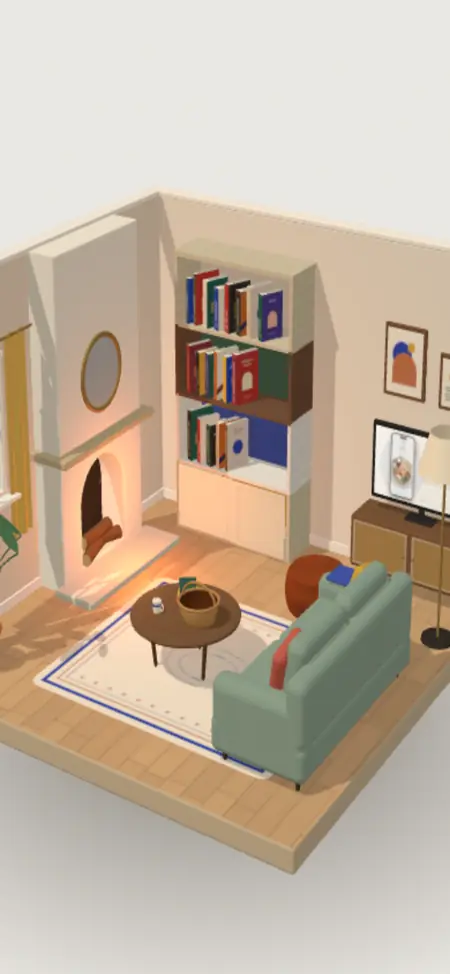
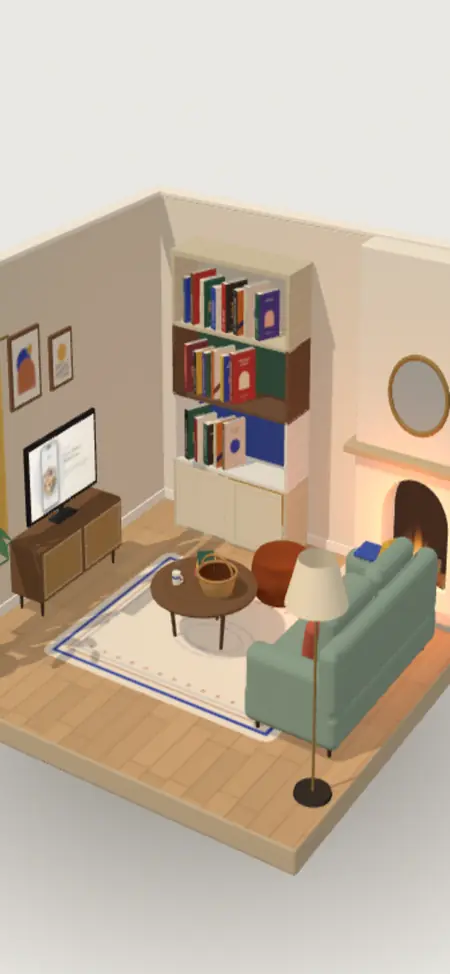
Plein écran pour les étagères ; salon réaménagé (télé face au canapé, cheminée loin des livres)
Claude-Session: https://claude.ai/code/session_01Tg9JuQWn64WBjX1JtYF8aa

Changed region(s): [[0.0, 0.2156, 1.0, 0.8932], [0.8089, 0.2464, 1.0, 0.2772]]

diff --git a/src/three/LivingRoomScene.js b/src/three/LivingRoomScene.js
@@ -26,13 +26,14 @@ const TARGET0 = new THREE.Vector3(0, 0.95, 0)
 
 // emplacements (repère de la pièce)
 const BOOKCASE = { x: -1.05, z: -R + 0.2, w: 1.62, h: 2.18, d: 0.38 }   // mur du fond, à gauche (face à la caméra)
-const FIRE = { z: -0.5, w: 1.3, d: 0.3 }                               // mur de gauche
-const TV = { x: 1.22 }
-const SOFA = { x: 1.34, z: 0.5 }
-const TABLE = { x: -0.02, z: 0.48 }
-const LAMP = { x: 1.76, z: -1.12 }
-const PLANT = { x: -1.58, z: 1.5 }
-const WINDOW = { z: 1.05, y: 1.5, w: 0.86, h: 1.08 }
+const FIRE = { x: 1.2, w: 1.3, d: 0.3 }                                // mur du fond, à droite (loin des livres)
+const TV = { z: 0.0 }                       // mur de gauche, en face du canapé
+const SOFA = { x: 1.34, z: 0.0 }            // face à la télé
+const TABLE = { x: -0.15, z: 0.0 }          // entre le canapé et la télé
+const LAMP = { x: 1.8, z: 1.38 }            // au bout du canapé
+const PLANT = { x: -1.6, z: 1.62 }          // coin, sous la fenêtre
+const WINDOW = { z: 1.3, y: 1.55, w: 0.66, h: 1.0 }
+const TV_FOV = 46                           // zoom sur la télé : comme assis dans le canapé
 
 const COL = {
   wallBack: '#ECE3D5', wallLeft: '#E4D9C8', base: '#F4EFE6', slab: '#CDBB9F',
@@ -429,17 +430,19 @@ export class LivingRoomScene {
     // tapis
     const rug = new THREE.Mesh(this._geo(new RoundedPlane(2.5, 2.1, 0.12)), this._mat('#ffffff', { map: this._track(rugTexture()), roughness: 1 }))
     rug.rotation.x = -Math.PI / 2
-    rug.position.set(0.18, 0.008, 0.42)
+    rug.position.set(-0.05, 0.008, 0.0)
     rug.receiveShadow = true
     g.add(rug)
 
-    // cadres au-dessus de la télé
+    // cadres au-dessus de la télé (mur de gauche)
     const frameMat = this._woodMat(COL.walnut)
-    ;[[TV.x - 0.3, 1.78, 0.44, 0.58, 0], [TV.x + 0.24, 1.7, 0.34, 0.44, 1]].forEach(([x, y, w, h, k]) => {
+    ;[[TV.z + 0.3, 1.86, 0.44, 0.58, 0], [TV.z - 0.24, 1.78, 0.34, 0.44, 1]].forEach(([z, y, w, h, k]) => {
       const f = this._rbox(w, h, 0.035, 0.008, frameMat)
-      f.position.set(x, y, -R + 0.02)
+      f.rotation.y = Math.PI / 2
+      f.position.set(-R + 0.02, y, z)
       const art = new THREE.Mesh(this._geo(new THREE.PlaneGeometry(w - 0.06, h - 0.06)), this._mat('#ffffff', { map: this._track(artTexture(k)), roughness: 0.9 }))
-      art.position.set(x, y, -R + 0.039)
+      art.rotation.y = Math.PI / 2
+      art.position.set(-R + 0.039, y, z)
       g.add(f, art)
     })
   }
@@ -592,8 +595,7 @@ export class LivingRoomScene {
   // ---- Cheminée ---------------------------------------------------------------------------
   _buildFireplace() {
     const grp = new THREE.Group()
-    grp.position.set(-R, 0, FIRE.z)
-    grp.rotation.y = Math.PI / 2       // contre le mur de gauche, face à la pièce (+x)
+    grp.position.set(FIRE.x, 0, -R)   // contre le mur du fond, face à la pièce (+z)
     this.room.add(grp)
     const W = FIRE.w, D = FIRE.d
     const aw = 0.74, ah = 0.5, ay = 0.1, ar = aw / 2
@@ -650,7 +652,7 @@ export class LivingRoomScene {
     })
     // lueur du feu
     this.fireLight = new THREE.PointLight(0xff8a3c, 2, 5.5, 1.6)
-    this.fireLight.position.set(-R + D + 0.45, 0.55, FIRE.z)
+    this.fireLight.position.set(FIRE.x, 0.55, -R + D + 0.45)
     this.scene.add(this.fireLight)
     // déco de la tablette : miroir rond, bougies, petit vase
     const mirror = new THREE.Mesh(this._geo(new THREE.CircleGeometry(0.3, 48)), this._mat('#C9D3D8', { roughness: 0.15, metalness: 0.3 }))
@@ -688,7 +690,8 @@ export class LivingRoomScene {
   // ---- Coin télé -------------------------------------------------------------------------
   _buildTvCorner() {
     const grp = new THREE.Group()
-    grp.position.set(TV.x, 0, -R + 0.22)
+    grp.position.set(-R + 0.22, 0, TV.z)
+    grp.rotation.y = Math.PI / 2      // contre le mur de gauche, face au canapé (+x)
     this.room.add(grp)
     const W = 1.3, Hh = 0.44, D = 0.4, leg = 0.14
     const wood = this._woodMat(COL.walnut)
@@ -791,12 +794,12 @@ export class LivingRoomScene {
 
   // ---- Zoom sur la télé (le tuto en grand) -------------------------------------------------
   _tvView() {
-    const target = new THREE.Vector3(TV.x, 1.0, -R + 0.2)
-    const t = Math.tan(THREE.MathUtils.degToRad(FOV / 2))
+    // face à l'écran, comme assis dans le canapé (rien entre la caméra et la télé)
+    const target = this.tvScreen.getWorldPosition(new THREE.Vector3())
+    const t = Math.tan(THREE.MathUtils.degToRad(TV_FOV / 2))
     const dist = Math.max((1.01 * 1.1) / 2 / (t * this.camera.aspect), (0.57 * 1.9) / 2 / t)
-    // écran en hauteur (téléphone) : la télé monte dans le haut, le texte du tuto se lit dessous
-    if (this.camera.aspect < 1) target.y -= 0.42 * dist * t
-    return { target, az: 0, el: 0.03, dist }
+    // la télé reste au milieu (le texte du tuto se lit dessous), le regard passe au-dessus de la table basse
+    return { target, az: Math.PI / 2, el: 0.06, dist }
   }
 
   zoomTv() {
@@ -824,12 +827,16 @@ export class LivingRoomScene {
     const e = ease(z.k), a = z.from, b = this._tvView()
     const tgt = a.target.clone().lerp(b.target, e)
     const dist = Math.exp(Math.log(a.dist) + (Math.log(b.dist) - Math.log(a.dist)) * e)
+    this.camera.fov = FOV + (TV_FOV - FOV) * e
+    // téléphone : l'image glisse vers le haut (la télé au-dessus du texte du tuto), sans baisser la caméra
+    if (this.camera.aspect < 1) this.camera.setViewOffset(this.w, this.h, 0, Math.round(this.h * 0.2 * e), this.w, this.h)
+    else this.camera.clearViewOffset()
+    this.camera.updateProjectionMatrix()
     this._placeCamera(a.az + (b.az - a.az) * e, a.el + (b.el - a.el) * e, dist, tgt)
-    this._fadeLamp(e)
     if (z.dir < 0 && z.k <= 0) {
       this.tvZoom = null
       this.az.snap(a.az); this.el.snap(a.el); this.target.copy(a.target)
-      this._fadeLamp(0)
+      this.camera.fov = FOV; this.camera.clearViewOffset(); this.camera.updateProjectionMatrix()
       this.idleAt = this.time
       if (this.pendingEnter !== undefined) { const f = this.pendingEnter; this.pendingEnter = undefined; this.enter(f) }
     }
@@ -862,7 +869,7 @@ export class LivingRoomScene {
   _placeBubbles() {
     const S = this.renderer.domElement.getBoundingClientRect()
     const show = !this.fly && !this.tvZoom
-    for (const [kind, pos] of [['tv', new THREE.Vector3(TV.x, 1.47, -R + 0.2)], ['basket', new THREE.Vector3(TABLE.x + 0.17, 0.86, TABLE.z + 0.04)]]) {
+    for (const [kind, pos] of [['tv', new THREE.Vector3(-R + 0.2, 1.47, TV.z)], ['basket', new THREE.Vector3(TABLE.x + 0.17, 0.86, TABLE.z + 0.04)]]) {
       const el = this.cb.bubble?.(kind)
       if (!el) continue
       const v = pos.project(this.camera)
@@ -1179,7 +1186,7 @@ export class LivingRoomScene {
       geo.computeVertexNormals()
       const c = new THREE.Mesh(geo, cm)
       c.rotation.y = Math.PI / 2
-      c.position.set(0.06, -0.12, s * (WINDOW.w / 2 + 0.16))
+      c.position.set(0.06, -0.12, s * (WINDOW.w / 2 + 0.14))
       c.castShadow = true
       grp.add(c)
       this.curtains.push(c)
@@ -1194,7 +1201,7 @@ export class LivingRoomScene {
   // ---- Pouf --------------------------------------------------------------------------------
   _buildPouf() {
     const grp = new THREE.Group()
-    grp.position.set(0.55, 0, -0.95)
+    grp.position.set(0.12, 0, -1.0)
     this.room.add(grp)
     const pr = [new THREE.Vector2(0, 0)]
     for (let k = 0; k <= 12; k++) {
@@ -1266,7 +1273,7 @@ export class LivingRoomScene {
     const hw = (CW / 2 + ST + 0.04) * sc     // demi-largeur (sur x)
     const g = new THREE.Group()
     // contre le mur du fond, entre le coin gauche et le meuble télé
-    g.position.set(clamp(-0.8, -1.92 + hw, 0.45 - hw), 0, -R + 0.012 + (SD / 2 + 0.02) * sc)
+    g.position.set(clamp(-0.85, -1.92 + hw, 0.2 - hw), 0, -R + 0.012 + (SD / 2 + 0.02) * sc)
     g.scale.setScalar(sc)
     g.add(copy)
     this.room.add(g)

diff --git a/src/three/BookcaseScene.js b/src/three/BookcaseScene.js
@@ -121,7 +121,9 @@ export class BookcaseScene {
     this.liveRows = null
     this.inView = null
     this.scroll = new Spring(0, 90, 1)      // centre de la vue (hauteur dans le mur)
-    this.zoom = new Spring(1, 60, 1)        // 1 : de près ; 0 : vue d'ensemble
+    this.zoom = new Spring(1, 60, 1)        // 1 : de près ; 0 : vue d'ensemble ; > 1 : plein écran, tout près
+    this.free = false                       // plein écran : on se promène et on zoome librement
+    this.panX = new Spring(0, 90, 1)        // plein écran : décalage sur le côté
     this.edgeVel = 0
     this.lightOffset = new THREE.Vector3(-3.2, 6.5, 6)
     this.doorsOpen = false
@@ -231,8 +233,23 @@ export class BookcaseScene {
   }
 
   /** Limites du défilement (centre de la vue) ; « rubber » laisse dépasser un peu en tirant. */
+  /** Grossissement au-delà de la vue rapprochée (plein écran). */
+  _zf() { return 1 + Math.max(0, this.zoom.v - 1) * 1.25 }
+  _clampPanX(v) {
+    const lim = this.layout ? (this.layout.CW / 2 + ST) * (1 - 1 / this._zf()) : 0
+    return clamp(v, -lim, lim)
+  }
+  /** Plein écran : plus d'interface, on glisse dans tous les sens et on pince pour zoomer. */
+  setFree(on) {
+    this.free = on
+    if (!on) { this.zoom.t = 1; this.panX.t = 0; this.cb.onZoom?.(1) }
+    this.camDirty = true
+    this.kick()
+  }
+
   _clampScroll(v, rubber = false) {
-    const lo = this.viewH / 2, hi = this.totalH - this.viewH / 2
+    const vh = this.viewH / this._zf()
+    const lo = vh / 2, hi = this.totalH - vh / 2
     if (hi <= lo) return this.totalH / 2
     if (!rubber) return clamp(v, lo, hi)
     if (v > hi) return hi + (v - hi) * 0.35
@@ -247,7 +264,9 @@ export class BookcaseScene {
     const yc = this.scroll.v
     const tNear = new THREE.Vector3(0, yc, 0).add(this.camNear.offset)
     const target = new THREE.Vector3(0, this.totalH / 2, 0).add(this.camFar.offset).lerp(tNear, z)
-    const dist = this.camFar.dist + (this.camNear.dist - this.camFar.dist) * z
+    const f = this._zf()
+    target.x += this.panX.v
+    const dist = (this.camFar.dist + (this.camNear.dist - this.camFar.dist) * z) / f
     this.camera.position.copy(target).addScaledVector(this.camDir, dist)
     this.camera.lookAt(target)
     this.camera.updateMatrixWorld()
@@ -268,7 +287,7 @@ export class BookcaseScene {
     this.cb.onView?.({ top: clamp(1 - (yNow + h / 2) / T, 0, 1), bottom: clamp(1 - (yNow - h / 2) / T, 0, 1), zoom: z })
   }
 
-  _upp() { return (this.viewNow?.h || this.viewH || 3) / Math.max(1, this.h) }
+  _upp() { return (this.viewNow?.h || this.viewH || 3) / Math.max(1, this.h) / this._zf() }
 
   rowBase(r) { return (this.rowCount - 1 - r) * (RH + PT) + PT }
 
@@ -705,7 +724,7 @@ export class BookcaseScene {
       if (this.pinch && this.pts.size >= 2) {
         const [a, b] = [...this.pts.values()]
         const d = Math.hypot(a.x - b.x, a.y - b.y)
-        this.zoom.t = clamp(this.pinch.z + (d / this.pinch.d - 1) * 1.4, 0, 1)
+        this.zoom.t = clamp(this.pinch.z + (d / this.pinch.d - 1) * (this.free ? 2 : 1.4), 0, this.free ? 3 : 1)
         this.cb.onZoom?.(this.zoom.t)
         this.kick()
         return
@@ -718,11 +737,11 @@ export class BookcaseScene {
         p.moved = true
         clearTimeout(p.timer)
 
-        if (!p.panX && p.id && p.type === 'mouse' && this.cb.canDrag?.() && this.zoom.t > 0.5) { this.onHoverMove(e); this._startDrag(); return }
+        if (!this.free && !p.panX && p.id && p.type === 'mouse' && this.cb.canDrag?.() && this.zoom.t > 0.5) { this.onHoverMove(e); this._startDrag(); return }
         if (p.panX) return
         // sinon on fait défiler le mur (on le « tire » du doigt ou de la souris)
         p.pan = true
-        this.panning = { y: e.clientY, scroll: this.scroll.v, lastY: e.clientY, lastT: performance.now(), vel: 0 }
+        this.panning = { y: e.clientY, scroll: this.scroll.v, lastY: e.clientY, lastT: performance.now(), vel: 0, x: e.clientX, px: this.panX.v }
         el.style.cursor = 'grabbing'
         this._setHover(null)
       }
@@ -743,7 +762,8 @@ export class BookcaseScene {
         const v = (e.clientY - pn.lastY) / Math.max(1, now - pn.lastT)
         pn.vel = pn.vel * 0.6 + v * 0.4
         pn.lastY = e.clientY; pn.lastT = now
-        this.scroll.snap(this._clampScroll(pn.scroll + (e.clientY - pn.y) * this._upp() / Math.max(0.35, this.zoom.v), true))
+        this.scroll.snap(this._clampScroll(pn.scroll + (e.clientY - pn.y) * this._upp() / Math.max(0.35, Math.min(1, this.zoom.v)), true))
+        if (this.free) this.panX.snap(this._clampPanX(pn.px - (e.clientX - pn.x) * this._upp()))
         this.camDirty = true
         this.kick()
       }
@@ -762,7 +782,7 @@ export class BookcaseScene {
       const overview = this.zoom.t <= 0.5
       const hit = overview ? null : this._pick(e)
       this.press = { id: hit, x: e.clientX, y: e.clientY, type: e.pointerType, overview, row: overview ? null : this._rowAt(e.clientX, e.clientY) }
-      if (hit && e.pointerType !== 'mouse' && this.cb.canDrag?.()) {
+      if (hit && !this.free && e.pointerType !== 'mouse' && this.cb.canDrag?.()) {
         this.press.timer = setTimeout(() => { if (this.press && !this.press.moved && !this.drag) this._startDrag() }, 320)
       }
     }
@@ -1028,8 +1048,10 @@ export class BookcaseScene {
       moving = true
     }
     // caméra : défilement et zoom
-    if (!this.scroll.done || !this.zoom.done || this.camDirty) {
-      for (let i = 0; i < sub; i++) { this.scroll.step(h); this.zoom.step(h) }
+    if (!this.scroll.done || !this.zoom.done || !this.panX.done || this.camDirty) {
+      for (let i = 0; i < sub; i++) { this.scroll.step(h); this.zoom.step(h); this.panX.step(h) }
+      // en dézoomant, on reste dans les limites du mur
+      if (!this.zoom.done && !this.panning) { this.panX.t = this._clampPanX(this.panX.t); this.scroll.t = this._clampScroll(this.scroll.t) }
       this.camDirty = false
       this._placeCamera()
       this._updateVisible()

diff --git a/src/components/Bookcase3D.jsx b/src/components/Bookcase3D.jsx
@@ -358,6 +358,18 @@ export default function Bookcase3D({
     return () => window.removeEventListener('pointerdown', onDown)
   }, [tocOpen])
 
+  // ---- Plein écran (téléphone) : plus d'interface, on se promène et on zoome dans les étagères ----
+  const [free, setFree] = useState(false)
+  useEffect(() => {
+    document.body.classList.toggle('immersive', free)
+    sceneRef.current?.setFree(free)
+    if (!free) return
+    const onKey = e => { if (e.key === 'Escape') setFree(false) }
+    window.addEventListener('keydown', onKey)
+    return () => { window.removeEventListener('keydown', onKey); document.body.classList.remove('immersive') }
+  }, [free])
+  useEffect(() => { if (!size.mobile) setFree(false) }, [size.mobile])
+
   // ---- Rendu --------------------------------------------------------------------------------
   const shown = spot || hovered
   const hd = shown ? toDisplay(shown) : null
@@ -429,6 +441,15 @@ export default function Bookcase3D({
       {aside}
       </div>
 
+      {free && (
+        <>
+          <button type="button" className="free-exit" onClick={() => setFree(false)} aria-label="Quitter le plein écran">
+            <svg viewBox="0 0 20 20" aria-hidden="true"><path d="M5 5l10 10M15 5L5 15" /></svg>
+          </button>
+          <p className="free-hint">Glisse pour te promener · pince pour zoomer</p>
+        </>
+      )}
+
       <div className="scene-bottom">
         <div className="toc">
           <button type="button" className={'lbl box toc-btn' + (tocOpen ? ' on' : '')} onClick={() => setTocOpen(o => !o)} aria-expanded={tocOpen} aria-label="Sommaire">
@@ -456,7 +477,7 @@ export default function Bookcase3D({
           )}
         </div>
         <Caption className="scene-caption" title={caption.title} subtitle={caption.subtitle} year={caption.year} dir={1} />
-        <button type="button" className={'lbl box zoom-btn' + (zoomedOut ? ' on' : '')} onClick={() => sceneRef.current?.setZoom(zoomedOut)} aria-label={zoomedOut ? 'Se rapprocher' : 'Tout voir'}>
+        <button type="button" className={'lbl box zoom-btn' + (zoomedOut ? ' on' : '')} onClick={() => (size.mobile ? setFree(true) : sceneRef.current?.setZoom(zoomedOut))} aria-label={size.mobile ? 'Plein écran' : zoomedOut ? 'Se rapprocher' : 'Tout voir'}>
           {zoomedOut ? (
             <><svg width="11" height="11" viewBox="0 0 11 11" aria-hidden="true"><path d="M1 4V1h3M10 4V1H7M1 7v3h3M10 7v3H7" stroke="currentColor" fill="none" /></svg> <span className="zl">Se rapprocher</span></>
           ) : (

diff --git a/src/styles.css b/src/styles.css
@@ -1405,3 +1405,21 @@ canvas { -webkit-user-select: none; user-select: none; -webkit-touch-callout: no
   .scene { grid-template-rows: minmax(0, 1fr); }
   .scene > .case-row, .scene > .scene-loading { grid-row: 1; }
 }
+
+/* Plein écran (téléphone) : plus aucune interface, le mur prend tout l'écran ---------------- */
+body.immersive .tabbar, body.immersive .scene-bottom, body.immersive .wall-rail, body.immersive .find-sheet { display: none !important; }
+body.immersive .scene { padding: 0 !important; }
+.free-exit {
+  position: fixed; top: calc(12px + env(safe-area-inset-top, 0px)); right: 12px; z-index: 30;
+  width: 40px; height: 40px; border-radius: 50%; display: inline-flex; align-items: center; justify-content: center;
+  background: rgba(244, 242, 237, 0.82); border: 1px solid var(--rule-soft); box-shadow: 0 6px 14px -8px rgba(20, 16, 10, 0.5);
+  animation: countPop 0.5s cubic-bezier(.3, 1.6, .5, 1) both;
+}
+.free-exit svg { width: 16px; height: 16px; stroke: var(--ink); stroke-width: 1.8; stroke-linecap: round; fill: none; }
+.free-hint {
+  position: fixed; left: 50%; bottom: calc(22px + env(safe-area-inset-bottom, 0px)); transform: translateX(-50%); z-index: 30;
+  padding: 8px 14px; border-radius: 18px; background: rgba(20, 20, 20, 0.78); color: var(--paper); white-space: nowrap;
+  font-family: var(--serif); font-style: italic; font-size: 14px; pointer-events: none;
+  animation: freeHint 3.2s ease both;
+}
+@keyframes freeHint { 0% { opacity: 0; transform: translate(-50%, 10px); } 12%, 75% { opacity: 1; transform: translate(-50%, 0); } 100% { opacity: 0; } }

diff --git a/src/App.jsx b/src/App.jsx
@@ -197,7 +197,7 @@ function Library({ user, onSignOut }) {
   const goSalon = useCallback(() => {
     const sc = bookcaseApi.current?.scene?.()
     if (!sc?.scroll) { setSalon('back'); return }
-    const atTop = () => Math.abs(sc.scroll.v - sc._clampScroll(Infinity)) < 0.01 && sc.zoom.v > 0.99 && sc.scroll.done && sc.zoom.done
+    const atTop = () => Math.abs(sc.scroll.v - sc._clampScroll(Infinity)) < 0.01 && Math.abs(sc.zoom.v - 1) < 0.01 && sc.scroll.done && sc.zoom.done
     if (atTop()) { setSalon('back'); return }
     sc.setZoom(true); sc.scrollToTop()
     const t0 = performance.now()
